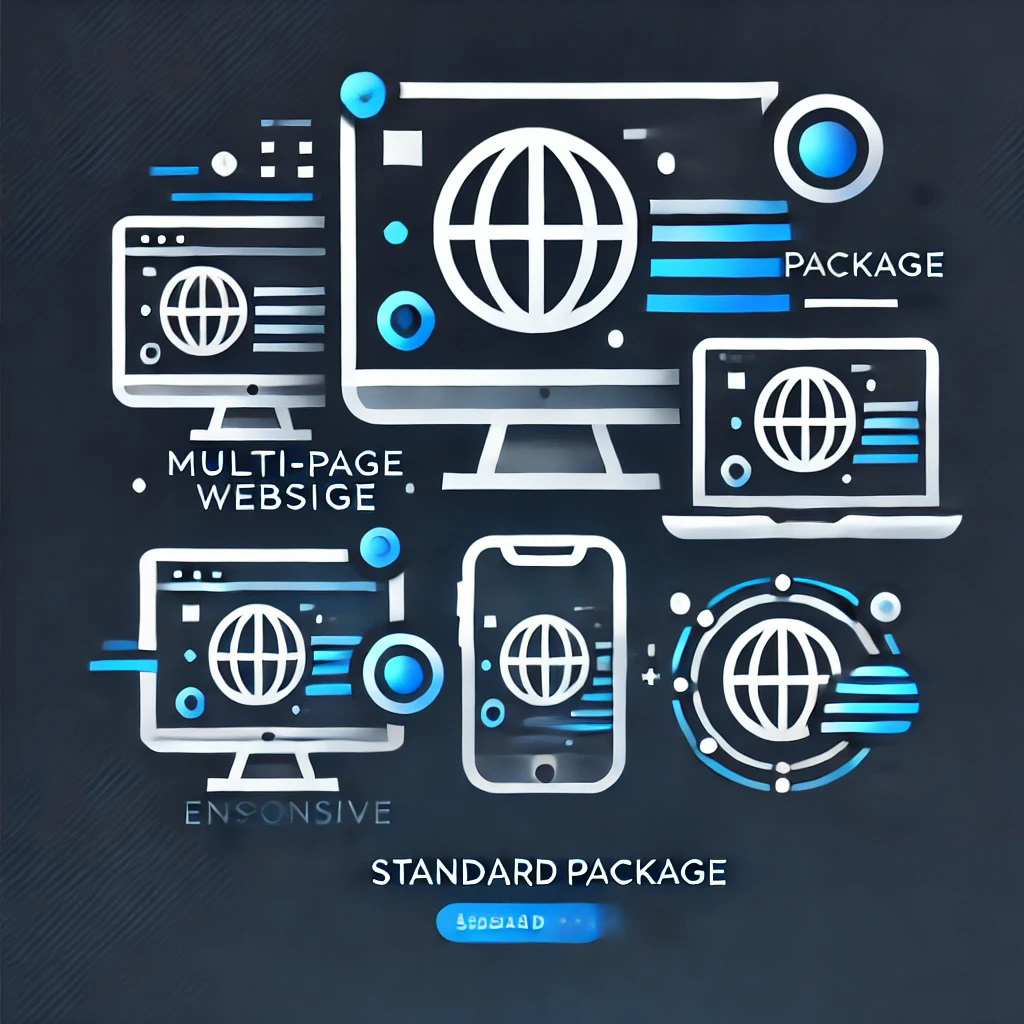
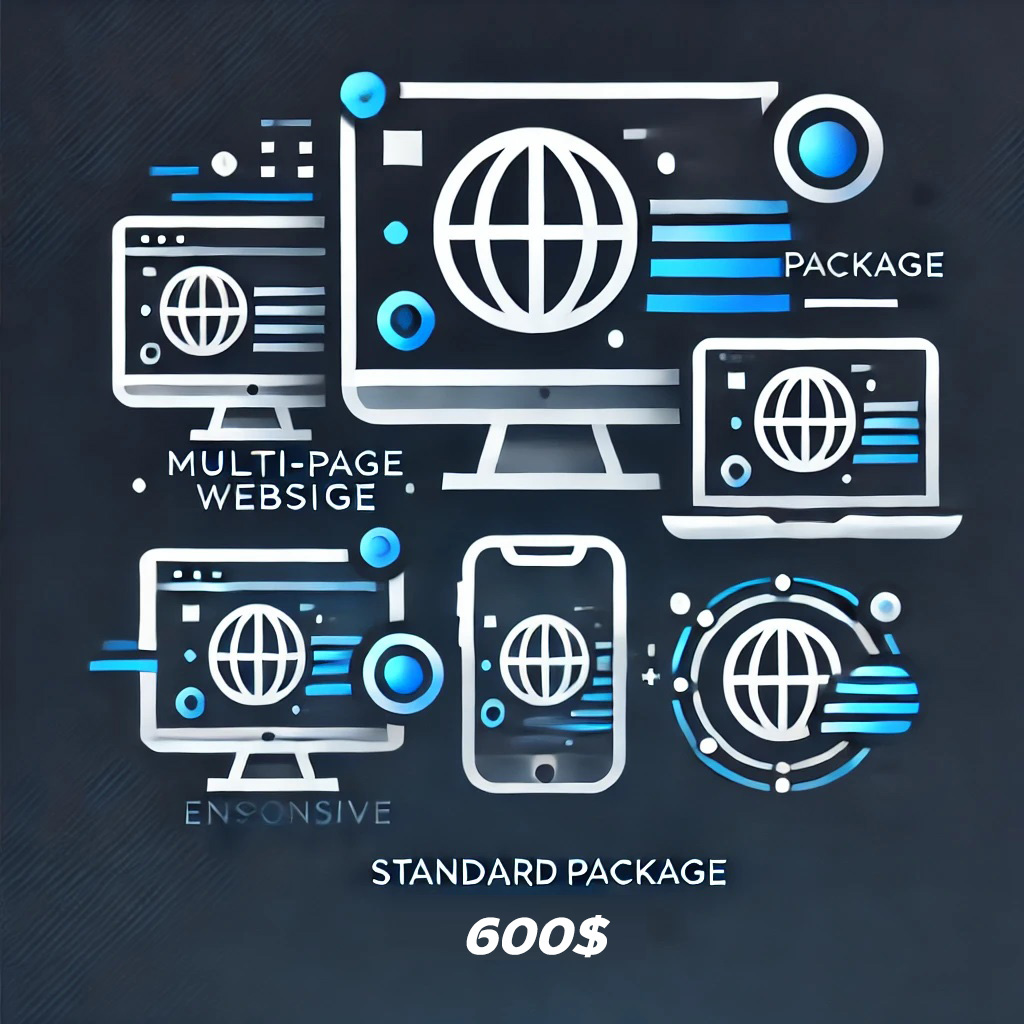
web

Changed region(s): [[0.4062, 0.875, 0.625, 0.9375]]

diff --git a/src/App.js b/src/App.js
@@ -59,19 +59,19 @@ const portfolioItems = [
 const pricingPlans = [
   {
     name: "Basic Package",
-    price: "$300",
+    price: "300$",
     features: ["Single-page design", "Responsive layout", "Basic SEO"],
     image: "./images/basic.jpg",
   },
   {
     name: "Standard Package",
-    price: "$600",
+    price: "600$",
     features: ["Multi-page website", "Custom design", "Standard SEO"],
     image: "./images/standard.jpg",
   },
   {
     name: "Premium Package",
-    price: "$1200",
+    price: "1200$",
     features: ["E-commerce functionality", "Advanced SEO", "1 year support"],
     image: "./images/premium.jpg",
   },
@@ -249,8 +249,8 @@ function App() {
           <div className="footer-content">
             <div className="contact-info">
               <p>Contact Us:</p>
-              <p>Email: <a href="mailto:info@futuresky.com">info@futuresky.com</a></p>
-              <p>Phone: <a href="tel:+1234567890">+1 (234) 567-890</a></p>
+              <p>Email: <a href="mailto:info@futuresky.com">chrelashvililevani@yahoo.com</a></p>
+              <p>Phone: <a href="tel:+1234567890">+995 558 79 77 78</a></p>
               <p className="pppp">&copy; 2025 Future Sky. All rights reserved.</p>
 
             </div>

diff --git a/src/App.css b/src/App.css
@@ -157,8 +157,6 @@ nav {
   }
 }
 
-
-
 /* Portfolio Section */
 
 .portfolio h2 {
@@ -549,4 +547,6 @@ nav {
   background-color: #822424;
   transform: scale(1.1);
 }
+
+
 
